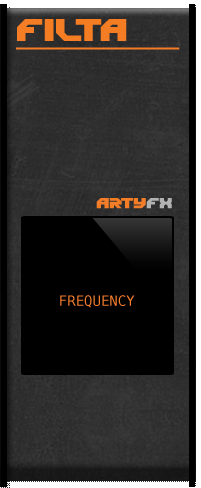
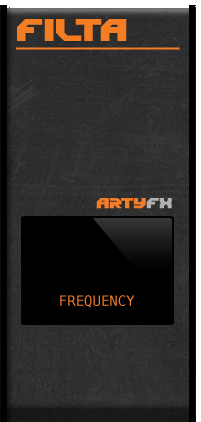
layout adjustments on filta

diff --git a/filta/filta.lv2/modgui/icon-filta.html b/filta/filta.lv2/modgui/icon-filta.html
@@ -8,9 +8,6 @@
         <div class="mod-knob">
             <div class="mod-knob-image" mod-role="input-control-port" mod-port-symbol="freq"></div>
         </div>
-        <div class="mod-knob switch">
-            <div class="mod-knob-image" mod-role="input-control-port" mod-port-symbol="active"></div>
-        </div>
     </div>
     <div class="mod-footswitch" mod-role="bypass"></div>  
 
@@ -45,9 +42,9 @@
     }
     .artyfx-filta {
         background-image:url(/resources/artyfx_filta.png{{{ns}}}) !important;
-        background-size:201px 488px;
+        background-size:201px 422px;
         width: 200px;
-        height: 488px;
+        height: 422px;
         background-position: 18px top;
     }
 
@@ -92,7 +89,7 @@
         background-position:top center;
         background-repeat:no-repeat;
         background-size:auto 132px;
-        bottom: 37px;
+        bottom: 23px;
         cursor:pointer;
         height:66px;
         left: 12px !important;
